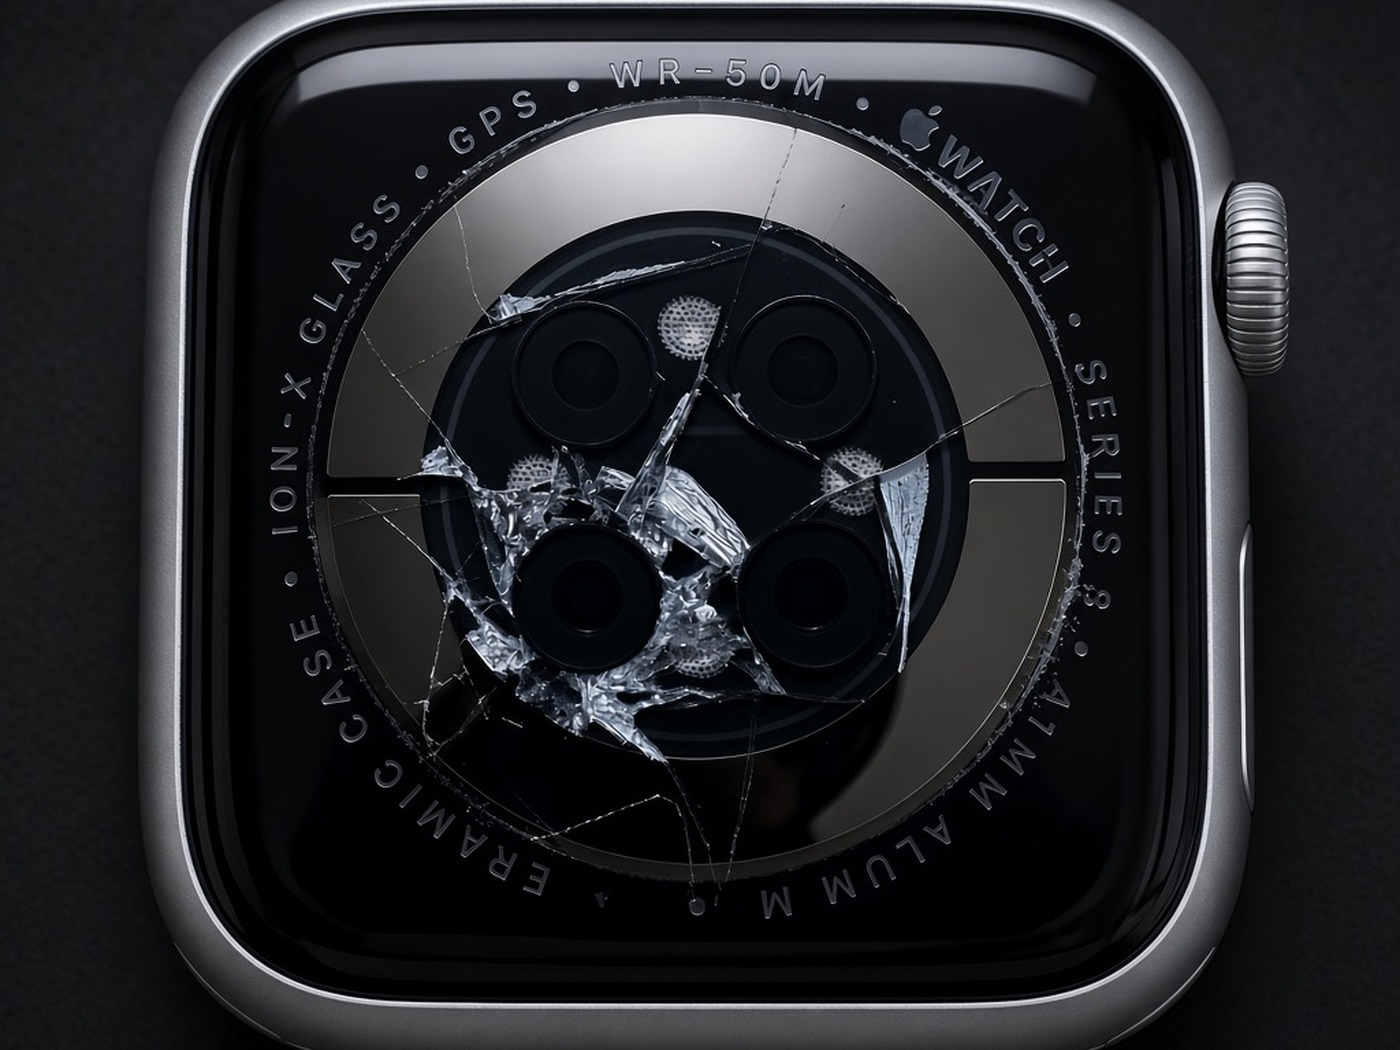
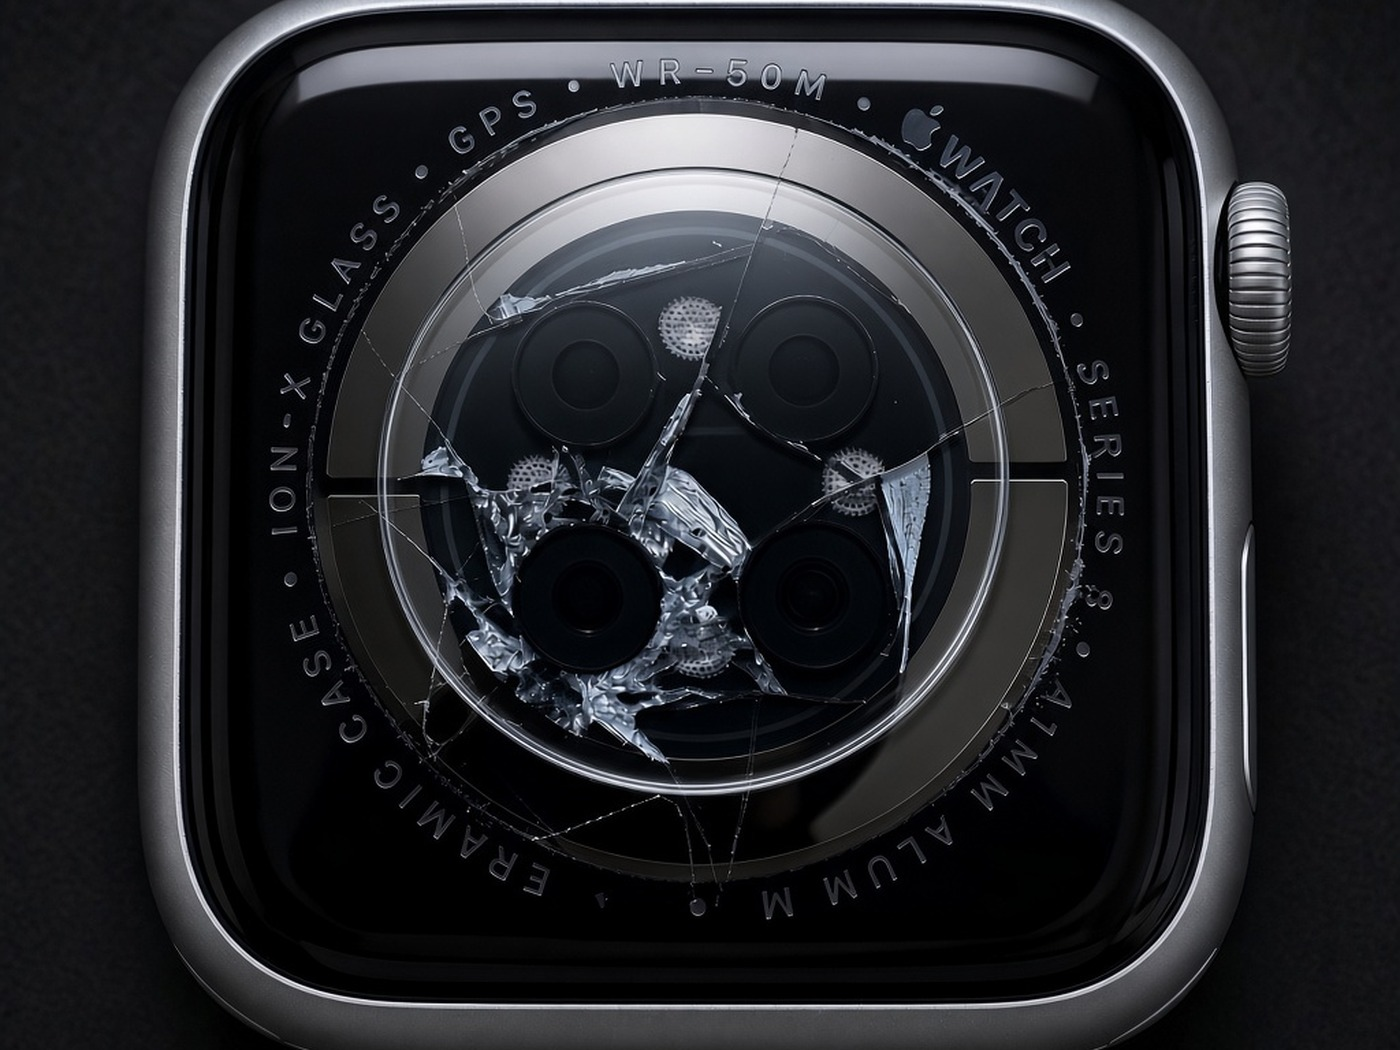
Hero: recoloca a lente reparadora translúcida sobre o sensor rachado.

diff --git a/index.html b/index.html
@@ -22,11 +22,11 @@
     <meta property="og:url" content="https://www.sensorcrashfix.com.br/">
     <meta property="og:title" content="Sensor Rachado? Restaure a Vedação | Sensor Crash Fix">
     <meta property="og:description" content="Vidro do sensor trincado perde a vedação. Lente Sensor Crash Fix restaura proteção e uso — Apple Watch, Samsung, Garmin.">
-    <meta property="og:image" content="https://www.sensorcrashfix.com.br/images/home/relogio_home.jpg?v=crash7">
+    <meta property="og:image" content="https://www.sensorcrashfix.com.br/images/home/relogio_home.jpg?v=crash8">
     <meta name="twitter:card" content="summary_large_image">
     <meta name="twitter:title" content="Sensor Crash Fix — Sensor Rachado no Smartwatch">
     <meta name="twitter:description" content="Sensor rachou e o relógio não fica mais à prova d’água? Veja a lente Sensor Crash Fix.">
-    <meta name="twitter:image" content="https://www.sensorcrashfix.com.br/images/home/relogio_home.jpg?v=crash7">
+    <meta name="twitter:image" content="https://www.sensorcrashfix.com.br/images/home/relogio_home.jpg?v=crash8">
     <link rel="stylesheet" href="style.css?v=3.18-crash">
     <link rel="stylesheet" href="https://cdnjs.cloudflare.com/ajax/libs/font-awesome/6.5.1/css/all.min.css">
     <script async src="https://www.googletagmanager.com/gtag/js?id=G-TFLZHJG9RN"></script>
@@ -90,7 +90,7 @@
                 </div>
             </div>
             <div class="hero-visual">
-                <img src="images/home/relogio_home.jpg?v=crash7" alt="Sensor de smartwatch rachado — lente Sensor Crash Fix restaura vedação e proteção" class="product-img">
+                <img src="images/home/relogio_home.jpg?v=crash8" alt="Sensor de smartwatch rachado — lente Sensor Crash Fix restaura vedação e proteção" class="product-img">
             </div>
         </div>
     </section>

diff --git a/en/index.html b/en/index.html
@@ -22,11 +22,11 @@
     <meta property="og:url" content="https://www.sensorcrashfix.com/">
     <meta property="og:title" content="Sensor Crash Fix — Cracked Sensor Cover">
     <meta property="og:description" content="Cracked sensor glass breaks waterproofing. Sensor Crash Fix restores protection.">
-    <meta property="og:image" content="https://www.sensorcrashfix.com/images/home/relogio_home.jpg?v=crash7">
+    <meta property="og:image" content="https://www.sensorcrashfix.com/images/home/relogio_home.jpg?v=crash8">
     <meta name="twitter:card" content="summary_large_image">
     <meta name="twitter:title" content="Sensor Crash Fix — Cracked Smartwatch Sensor">
     <meta name="twitter:description" content="Sensor cracked? Restore waterproofing with Sensor Crash Fix.">
-    <meta name="twitter:image" content="https://www.sensorcrashfix.com/images/home/relogio_home.jpg?v=crash7">
+    <meta name="twitter:image" content="https://www.sensorcrashfix.com/images/home/relogio_home.jpg?v=crash8">
     <link rel="stylesheet" href="../style.css?v=3.18-crash">
     <link rel="preconnect" href="https://fonts.googleapis.com">
     <link rel="preconnect" href="https://fonts.gstatic.com" crossorigin>
@@ -101,7 +101,7 @@
                 </div>
             </div>
             <div class="hero-visual">
-                <img src="../images/home/relogio_home.jpg?v=crash7" alt="Cracked smartwatch sensor — Sensor Crash Fix lens restores waterproofing" class="product-img">
+                <img src="../images/home/relogio_home.jpg?v=crash8" alt="Cracked smartwatch sensor — Sensor Crash Fix lens restores waterproofing" class="product-img">
             </div>
         </div>
     </section>

diff --git a/de/index.html b/de/index.html
@@ -22,11 +22,11 @@
     <meta property="og:url" content="https://www.sensorcrashfix.com/de/">
     <meta property="og:title" content="Sensor Crash Fix — Cracked Sensor Cover">
     <meta property="og:description" content="Cracked sensor glass breaks waterproofing. Sensor Crash Fix restores protection.">
-    <meta property="og:image" content="https://www.sensorcrashfix.com.br/images/home/relogio_home.jpg?v=crash7">
+    <meta property="og:image" content="https://www.sensorcrashfix.com.br/images/home/relogio_home.jpg?v=crash8">
     <meta name="twitter:card" content="summary_large_image">
     <meta name="twitter:title" content="Sensor Crash Fix — Cracked Smartwatch Sensor">
     <meta name="twitter:description" content="Sensor cracked? Restore waterproofing with Sensor Crash Fix.">
-    <meta name="twitter:image" content="https://www.sensorcrashfix.com.br/images/home/relogio_home.jpg?v=crash7">
+    <meta name="twitter:image" content="https://www.sensorcrashfix.com.br/images/home/relogio_home.jpg?v=crash8">
     <link rel="stylesheet" href="../style.css?v=3.18-crash">
     <link rel="preconnect" href="https://fonts.googleapis.com">
     <link rel="preconnect" href="https://fonts.gstatic.com" crossorigin>
@@ -107,7 +107,7 @@
                 </div>
             </div>
             <div class="hero-visual">
-                <img src="../images/home/relogio_home.jpg?v=crash7" alt="Sensor Crash Fix" class="product-img">
+                <img src="../images/home/relogio_home.jpg?v=crash8" alt="Sensor Crash Fix" class="product-img">
             </div>
         </div>
     </section>

diff --git a/es/index.html b/es/index.html
@@ -22,11 +22,11 @@
     <meta property="og:url" content="https://www.sensorcrashfix.com/es/">
     <meta property="og:title" content="Sensor Crash Fix — Cracked Sensor Cover">
     <meta property="og:description" content="Cracked sensor glass breaks waterproofing. Sensor Crash Fix restores protection.">
-    <meta property="og:image" content="https://www.sensorcrashfix.com.br/images/home/relogio_home.jpg?v=crash7">
+    <meta property="og:image" content="https://www.sensorcrashfix.com.br/images/home/relogio_home.jpg?v=crash8">
     <meta name="twitter:card" content="summary_large_image">
     <meta name="twitter:title" content="Sensor Crash Fix — Cracked Smartwatch Sensor">
     <meta name="twitter:description" content="Sensor cracked? Restore waterproofing with Sensor Crash Fix.">
-    <meta name="twitter:image" content="https://www.sensorcrashfix.com.br/images/home/relogio_home.jpg?v=crash7">
+    <meta name="twitter:image" content="https://www.sensorcrashfix.com.br/images/home/relogio_home.jpg?v=crash8">
     <link rel="stylesheet" href="../style.css?v=3.18-crash">
     <link rel="preconnect" href="https://fonts.googleapis.com">
     <link rel="preconnect" href="https://fonts.gstatic.com" crossorigin>
@@ -107,7 +107,7 @@
                 </div>
             </div>
             <div class="hero-visual">
-                <img src="../images/home/relogio_home.jpg?v=crash7" alt="Sensor Crash Fix" class="product-img">
+                <img src="../images/home/relogio_home.jpg?v=crash8" alt="Sensor Crash Fix" class="product-img">
             </div>
         </div>
     </section>

diff --git a/it/index.html b/it/index.html
@@ -22,11 +22,11 @@
     <meta property="og:url" content="https://www.sensorcrashfix.com/it/">
     <meta property="og:title" content="Sensor Crash Fix — Cracked Sensor Cover">
     <meta property="og:description" content="Cracked sensor glass breaks waterproofing. Sensor Crash Fix restores protection.">
-    <meta property="og:image" content="https://www.sensorcrashfix.com.br/images/home/relogio_home.jpg?v=crash7">
+    <meta property="og:image" content="https://www.sensorcrashfix.com.br/images/home/relogio_home.jpg?v=crash8">
     <meta name="twitter:card" content="summary_large_image">
     <meta name="twitter:title" content="Sensor Crash Fix — Cracked Smartwatch Sensor">
     <meta name="twitter:description" content="Sensor cracked? Restore waterproofing with Sensor Crash Fix.">
-    <meta name="twitter:image" content="https://www.sensorcrashfix.com.br/images/home/relogio_home.jpg?v=crash7">
+    <meta name="twitter:image" content="https://www.sensorcrashfix.com.br/images/home/relogio_home.jpg?v=crash8">
     <link rel="stylesheet" href="../style.css?v=3.18-crash">
     <link rel="preconnect" href="https://fonts.googleapis.com">
     <link rel="preconnect" href="https://fonts.gstatic.com" crossorigin>
@@ -101,7 +101,7 @@
                 </div>
             </div>
             <div class="hero-visual">
-                <img src="../images/home/relogio_home.jpg?v=crash7" alt="Sensor Crash Fix" class="product-img">
+                <img src="../images/home/relogio_home.jpg?v=crash8" alt="Sensor Crash Fix" class="product-img">
             </div>
         </div>
     </section>

diff --git a/pl/index.html b/pl/index.html
@@ -22,11 +22,11 @@
     <meta property="og:url" content="https://www.sensorcrashfix.com/pl/">
     <meta property="og:title" content="Sensor Crash Fix — Cracked Sensor Cover">
     <meta property="og:description" content="Cracked sensor glass breaks waterproofing. Sensor Crash Fix restores protection.">
-    <meta property="og:image" content="https://www.sensorcrashfix.com.br/images/home/relogio_home.jpg?v=crash7">
+    <meta property="og:image" content="https://www.sensorcrashfix.com.br/images/home/relogio_home.jpg?v=crash8">
     <meta name="twitter:card" content="summary_large_image">
     <meta name="twitter:title" content="Sensor Crash Fix — Cracked Smartwatch Sensor">
     <meta name="twitter:description" content="Sensor cracked? Restore waterproofing with Sensor Crash Fix.">
-    <meta name="twitter:image" content="https://www.sensorcrashfix.com.br/images/home/relogio_home.jpg?v=crash7">
+    <meta name="twitter:image" content="https://www.sensorcrashfix.com.br/images/home/relogio_home.jpg?v=crash8">
     <link rel="stylesheet" href="../style.css?v=3.18-crash">
     <link rel="preconnect" href="https://fonts.googleapis.com">
     <link rel="preconnect" href="https://fonts.gstatic.com" crossorigin>
@@ -107,7 +107,7 @@
                 </div>
             </div>
             <div class="hero-visual">
-                <img src="../images/home/relogio_home.jpg?v=crash7" alt="Sensor Crash Fix" class="product-img">
+                <img src="../images/home/relogio_home.jpg?v=crash8" alt="Sensor Crash Fix" class="product-img">
             </div>
         </div>
     </section>

diff --git a/sl/index.html b/sl/index.html
@@ -22,11 +22,11 @@
     <meta property="og:url" content="https://www.sensorcrashfix.com/sl/">
     <meta property="og:title" content="Sensor Crash Fix — Cracked Sensor Cover">
     <meta property="og:description" content="Cracked sensor glass breaks waterproofing. Sensor Crash Fix restores protection.">
-    <meta property="og:image" content="https://www.sensorcrashfix.com.br/images/home/relogio_home.jpg?v=crash7">
+    <meta property="og:image" content="https://www.sensorcrashfix.com.br/images/home/relogio_home.jpg?v=crash8">
     <meta name="twitter:card" content="summary_large_image">
     <meta name="twitter:title" content="Sensor Crash Fix — Cracked Smartwatch Sensor">
     <meta name="twitter:description" content="Sensor cracked? Restore waterproofing with Sensor Crash Fix.">
-    <meta name="twitter:image" content="https://www.sensorcrashfix.com.br/images/home/relogio_home.jpg?v=crash7">
+    <meta name="twitter:image" content="https://www.sensorcrashfix.com.br/images/home/relogio_home.jpg?v=crash8">
     <link rel="stylesheet" href="../style.css?v=3.18-crash">
     <link rel="preconnect" href="https://fonts.googleapis.com">
     <link rel="preconnect" href="https://fonts.gstatic.com" crossorigin>
@@ -94,7 +94,7 @@
                 </div>
             </div>
             <div class="hero-visual">
-                <img src="../images/home/relogio_home.jpg?v=crash7" alt="Sensor Crash Fix" class="product-img">
+                <img src="../images/home/relogio_home.jpg?v=crash8" alt="Sensor Crash Fix" class="product-img">
             </div>
         </div>
     </section>
